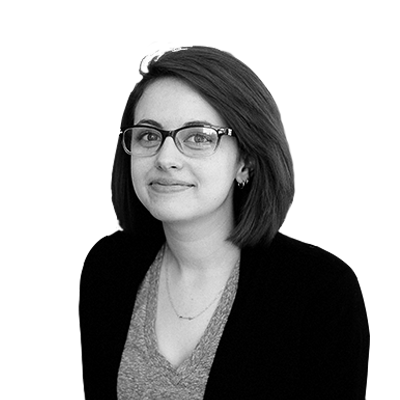
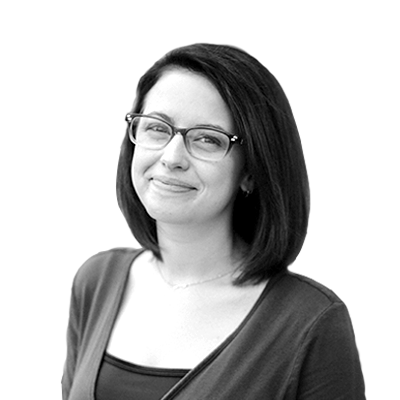
Feat: 6 point 0 (#65)
* Feat: Version 6.0, missing images

* Chore: Update 6.0 Apprentice images

diff --git a/pages/index.html b/pages/index.html
@@ -44,6 +44,80 @@ window.grunticon=function(e){if(e&&3===e.length){var t=window,n=!(!t.document.cr
     <p class="info-secondary">We&rsquo;re looking primarily for those interested in an apprenticeship in web development &mdash; frontend, backend, or anything code related. What we&rsquo;re looking for most, however, are individuals who are excited to make their mark on the web industry. In your application, provide anything and everything you can that will convince us you are that geek.</p>
     <a href="apply.html" class="button">Learn More &amp; Apply</a>
   </section>
+<!-- VERSION 6.0 -->
+
+<div id="version-6" class="version-6">
+  <h1 class="version-heading">version<br><strong class="version-number">6.0</strong></h1>
+  <div class="version--container">
+    <!-- Rachel Broering -->
+    <div class="version-profile">
+      <div class="version-profile--image-wrapper">
+        <img class="version-profile--image" src="../img/Rachel-Broering.png" alt="kasey bonifacio" />
+      </div>
+      <h3 class="version-profile--name">Rachel Broering</h3>
+      <p class="version-profile--info">Still Aapprenticing</p>
+      <div class="version-profile-social">
+        <ul class="apprentice--socialicon">
+          <li class="social--icon-item">
+            <a href="https://twitter.com/BroeringRachel" class="icon icon-twitter2">
+              <span class="visuallyhidden">twitter</span>
+            </a>
+          </li>
+          <li class="social--icon-item">
+            <a href="https://github.com/RachelAnnB" class="icon icon-github2">
+              <span class="visuallyhidden">github</span>
+            </a>
+          </li>
+          <li class="social--icon-item">
+            <a href="https://www.behance.net/rachelbroering" class="icon icon-personal">
+              <span class="visuallyhidden">personal site</span>
+            </a>
+          </li>
+        </ul>
+      </div>
+    </div>
+    <!-- End Rachel -->
+    <!-- Andrew Spencer  -->
+    <div class="version-profile">
+      <div class="version-profile--image-wrapper">
+        <img class="version-profile--image" src="../img/Andrew-Spencer.png" alt="lauren dorman" />
+      </div>
+      <h3 class="version-profile--name">Andrew Spencer</h3>
+      <p class="version-profile--info">Still Aapprenticing
+        <!-- Went on to work with <a href="http://www.cardinalsolutions.com/">Cardinal Solutions -->
+        </a></p>
+      <div class="version-profile-social">
+        <ul class="apprentice--socialicon">
+          <li class="social--icon-item">
+            <a href="https://twitter.com/A_Sp3nc3" class="icon icon-twitter2">
+              <span class="visuallyhidden">twitter</span>
+            </a>
+          </li>
+          <li class="social--icon-item">
+            <a href="https://github.com/aspencer116" class="icon icon-github2">
+              <span class="visuallyhidden">github</span>
+            </a>
+          </li>
+          <li class="social--icon-item">
+            <a href="http://andrew-spencer.com/" class="icon icon-personal">
+              <span class="visuallyhidden">personal site</span>
+            </a>
+          </li>
+        </ul>
+      </div>
+    </div>
+    <!-- End Andrew -->
+    <div class="version-project">
+      <h4 class="version-project--heading">projects</h4>
+      <ul class="version-project--titles">
+        <li><a href="#">Coming Soon!</a></li>
+      </ul>
+    </div>
+  </div>
+</div>
+
+<!-- END 6.0 -->
+
 
 <!-- VERSION 5.0 -->
   <div id="version-5" class="version-5">

diff --git a/scss/_version.scss b/scss/_version.scss
@@ -135,7 +135,6 @@ section {
 }
 
 .version-5 {
-  background-color: $purple;
   .version-profile {
     @include sb-media (52.570em) {
       width: 34%;
@@ -155,11 +154,11 @@ section {
   background-color: $yellow;
 }
 
-.version-2 {
+.version-2, .version-6 {
   background-color: $orange;
 }
 
-.version-1 {
+.version-1, .version-5 {
   background-color: $blue;
   padding-bottom: 1em;
 }
